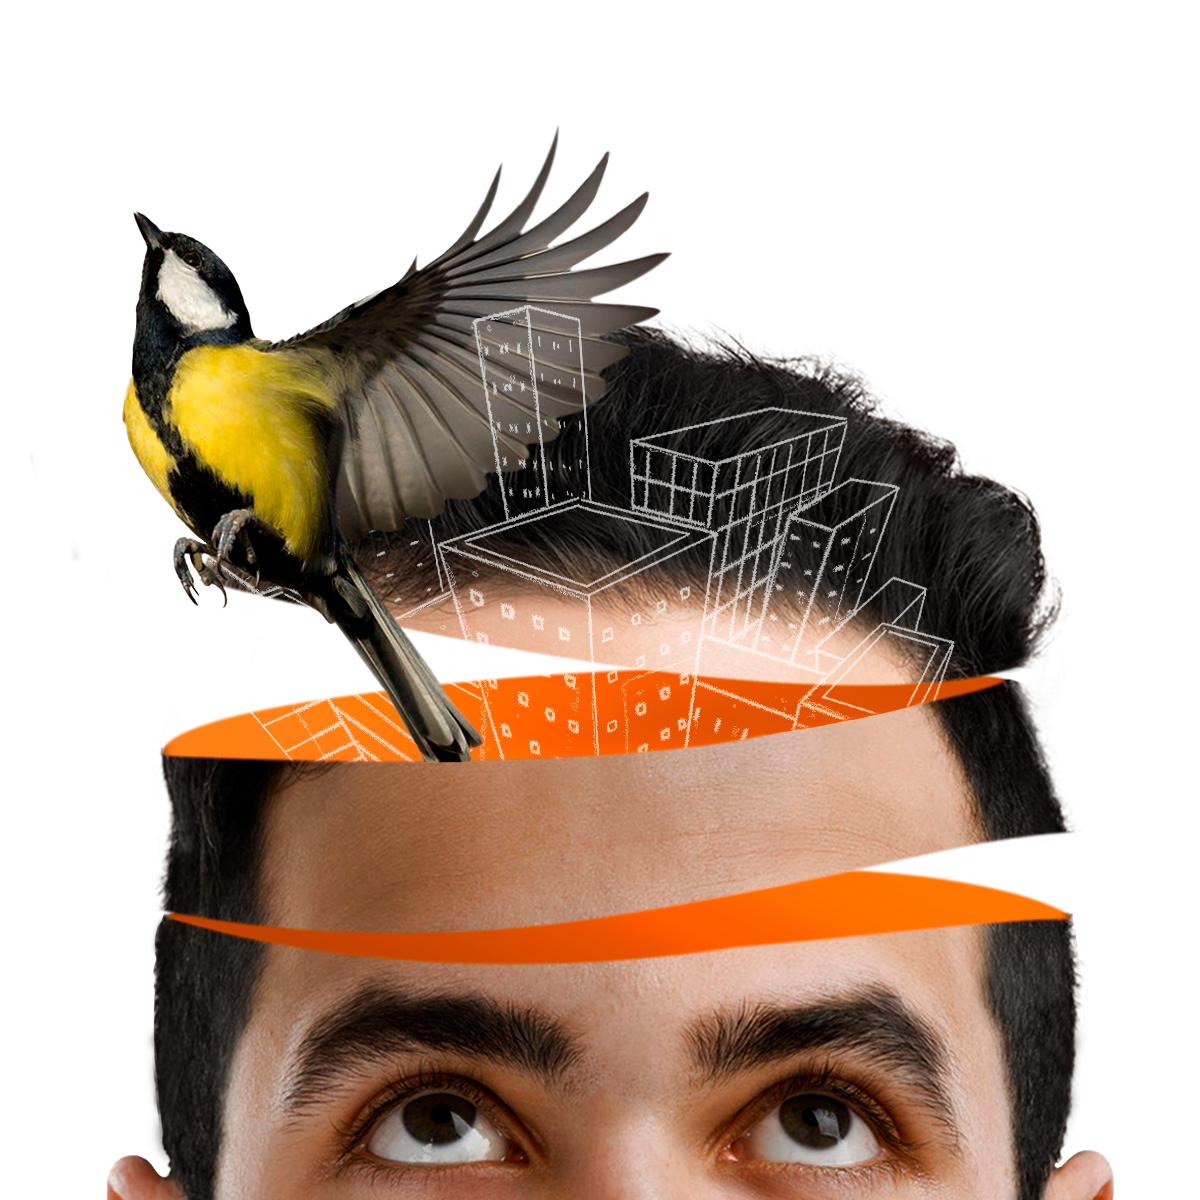
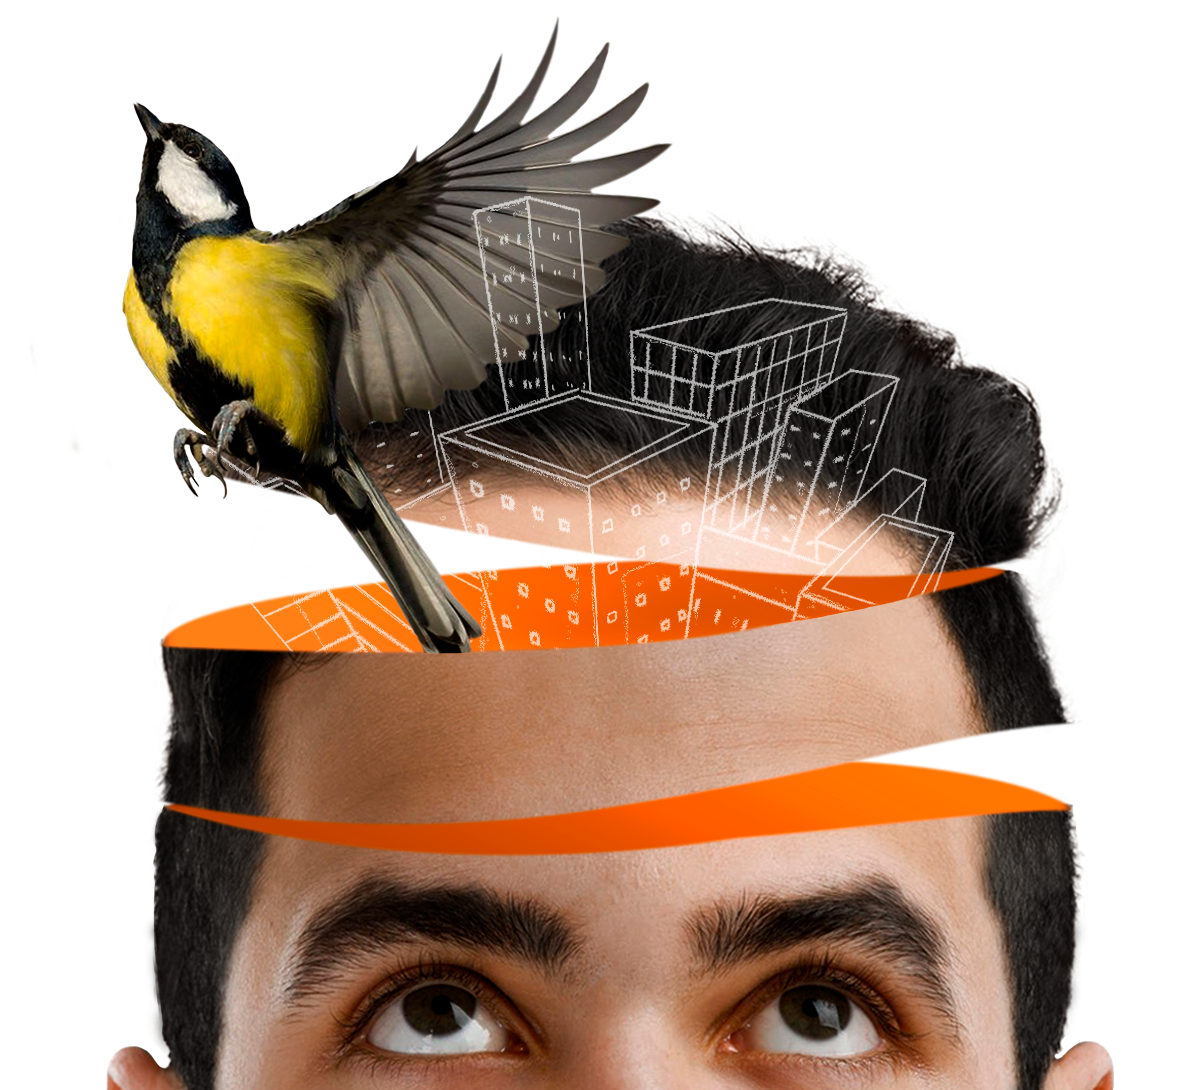
suficiencia title y img responsive añadido

diff --git a/style/suficiencia.css b/style/suficiencia.css
@@ -47,7 +47,10 @@ body{
 .titulo .text .subtitle2{
     font-size:210px;
 }
-.titulo .img{
+.titulo .img-2{
+    display: none;
+}
+.titulo .img-1{
     transform: rotateY(180deg);
     bottom: 0;
     right: 0;
@@ -117,7 +120,7 @@ body{
     .titulo .text .subtitle2{
         font-size:180px;
     }
-    .titulo img{
+    .titulo .img-1 img{
        width: 650px;
        height: 450px;
     }
@@ -129,15 +132,103 @@ body{
     .titulo .text .subtitle2{
         font-size:180px;
     }
-    .titulo img{
+    .titulo .img-1 img{
        width: 550px;
        height: 400px;
     }
 }
-@media screen and (max-width: 1000px){
-     .titulo{
+@media screen and (max-width: 1025px){
+    .titulo{
+        display: flex;
+        justify-content: center;
+        height: auto;
+        flex-wrap: wrap;
+        gap:0;
+    }
+    .titulo .text{
+        margin:0;
+        position: relative;
+    }
+     .titulo .img-1{
+        display: none;
      }
-   
+     .titulo .img-2{
+        position: relative; 
+        display: flex;
+        align-items: flex-end;
+    }
+    .titulo .img-2 img{
+        object-fit: cover;
+        width: 500px;
+        top:-70px;
+    }
+     .titulo .text .subtitle2{
+         text-align: end;
+     }
+
+     .titulo .division{
+        position:absolute;
+        width: 100%;
+        height: 5px;
+        background-color: rgb(255, 255, 255);
+        display: flex;
+        align-items: center;
+    }
+    .titulo .division::after{
+        content:"";
+        display:inline-block;
+        position:absolute;
+        left:0;
+        height: 20px;
+        width: 20px;
+        border-radius: 50%;
+        background:rgb(255, 255, 255);
+    }
+    .titulo .division::before{
+        content:"";
+        display:inline-block;
+        position:absolute;
+        right:0;
+        height: 20px;
+        width: 20px;
+        border-radius: 50%;
+        background:rgb(255, 255, 255);
+    }
+ }
+ @media screen and (max-width: 768px){
+    .titulo .text .subtitle1{
+        font-size: 100px;
+    }
+    .titulo .text .subtitle2{
+        font-size: 150px;
+    }
+    .titulo .img-2 img{
+        width: 400px;
+    }
+    
+ }
+ @media screen and (max-width: 500px){
+    .titulo .text .subtitle1{
+        font-size: 80px;
+    }
+    .titulo .text .subtitle2{
+        font-size: 130px;
+    }
+    .titulo .img-2 img{
+        width: 350px;
+    }
+    .titulo .division{
+        height: 3px;
+    }
+    .titulo .division::after{
+        height: 15px;
+        width: 15px;
+    }
+    .titulo .division::before{
+        height: 15px;
+        width: 15px;
+    }
+
  }
 @media screen and (max-width: 450px){
     .titulo .text .subtitle1{
@@ -155,5 +246,8 @@ body{
         font-size:21px;
         padding: 0px 0px;
     }
-
+    .titulo .img-2 img{
+        width: 300px;
+        top:-50px;
+    }
 }

diff --git a/suficiencia.html b/suficiencia.html
@@ -17,10 +17,14 @@
     <div class="titulo">
         <div class="text">
                 <h2 class="subtitle1">Suficiencia</h2> 
+                <div class="division"></div>
                 <h2 class="subtitle2">Unsa</h2>
         </div>
-        <div class="img">
+        <div class="img-1">
             <img src="img/portada-suficiencia.png" alt="portada-suficiencia">
+        </div>
+        <div class="img-2">
+            <img src="img/portada-suficiencia-movil.png" alt="portada-suficiencia-movil">
         </div>
     </div>  
     <div class="somos">

diff --git a/style/somos.css b/style/somos.css
@@ -57,10 +57,6 @@
     .quienes-text span{
         font-size:50px;
     }
-    
-        margin-left: auto;
-        margin-right: auto;
-    }
     .quienes-text img{
         height: 40px;
     }
